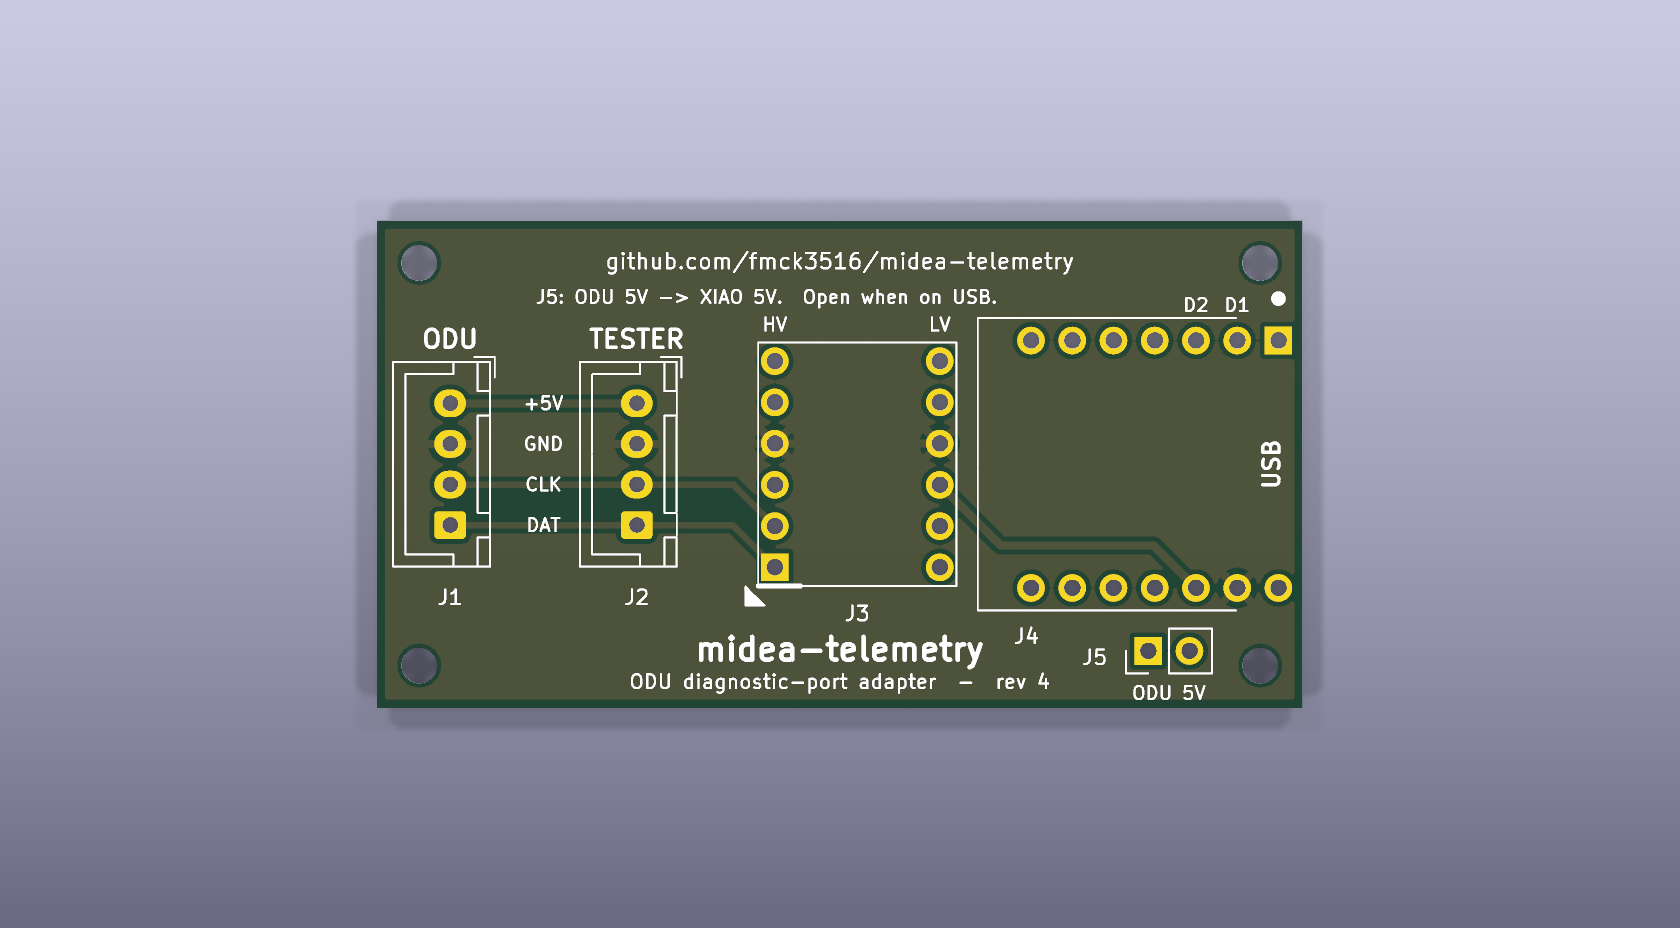
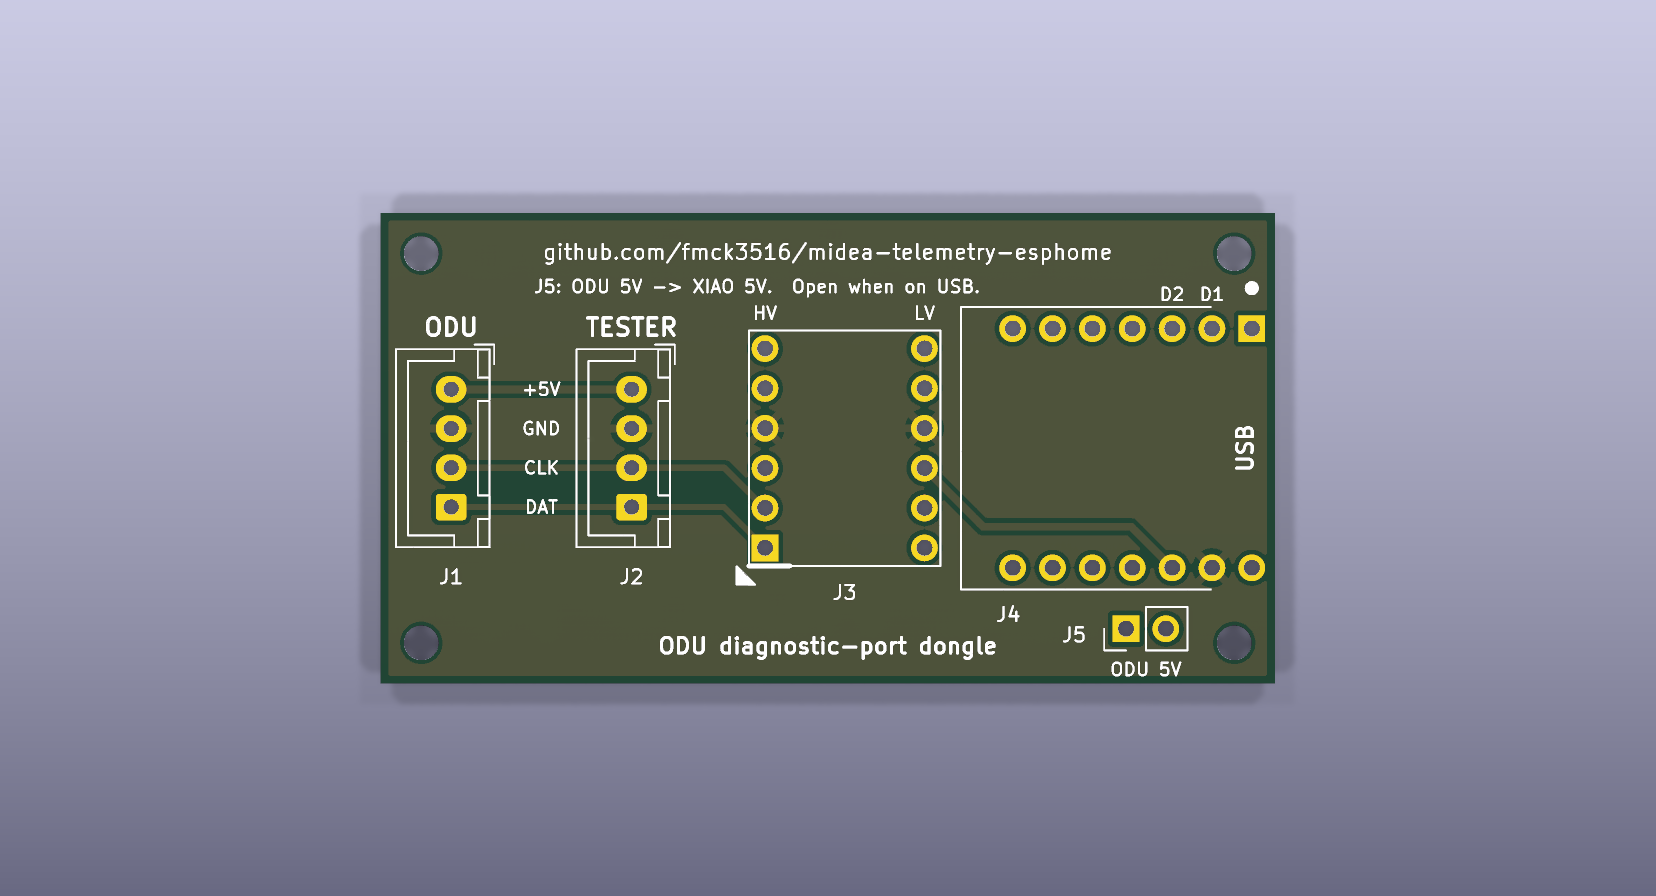
added disclaimer

Changed region(s): [[0.2156, 0.2188, 0.8007, 0.75]]

diff --git a/README.md b/README.md
@@ -8,13 +8,18 @@ An [ESPHome](https://esphome.io/) component to feed telemetry from Midea's diagn
 
 > ⚠ **Safety.** The outdoor unit runs on mains voltage and can retain a dangerous charge after being unplugged. Only plug a connector into the diagnostic port if you know what you are doing. You are responsible for your own hardware and safety.
 
+## Disclaimer
+
+Midea is a trademark of Midea Group. This is an independent, unofficial hobby project and is not affiliated with, authorized, endorsed by, or sponsored by Midea. The name is used only to describe which hardware the project interoperates with. All product names and trademarks are the property of their respective owners.
+
+
 ## Prior Art
 
 I've documented the diagnostic bus protocol in great detail on Medium: [Reverse Engineering Midea's ODU Diagnostic Port](https://medium.com/@florian.mckee/reverse-engineering-mideas-odu-diagnostic-port-af603e159053). The firmware in this repository is based on those findings. Start there if you want to understand the protocol; the byte mappings and conversion formulas in the [Fields](#fields) table come straight from it.
 
 ## Hardware
 
-All you need is a **dual-core ESP32** and a level shifter. A dual core is required because the bus bit-banging runs in a dedicated FreeRTOS task — a full request/response cycle keeps the bus busy for ~380 ms, far too long to run on the main loop.
+All you need is a **dual-core ESP32** and a level shifter. A dual core is required because the bus bit-banging runs in a dedicated FreeRTOS task. A full request/response cycle keeps the bus busy for ~380 ms, far too long to run on the main loop.
 
 <img src="images/schematics.png" width="400">
 
@@ -139,3 +144,7 @@ The webserver is useful for users that don't use Home Assistant.
 Home Assistant will automatically detect the dongle as a new ESPHome device:
 
 <img src="images/ha-auto-discovery.png" width="400">
+
+## Disclaimer
+
+Midea is a trademark of Midea Group. This is an independent, unofficial hobby project and is not affiliated with, authorized, endorsed by, or sponsored by Midea. The name is used only to describe which hardware the project interoperates with. All product names and trademarks are the property of their respective owners.
